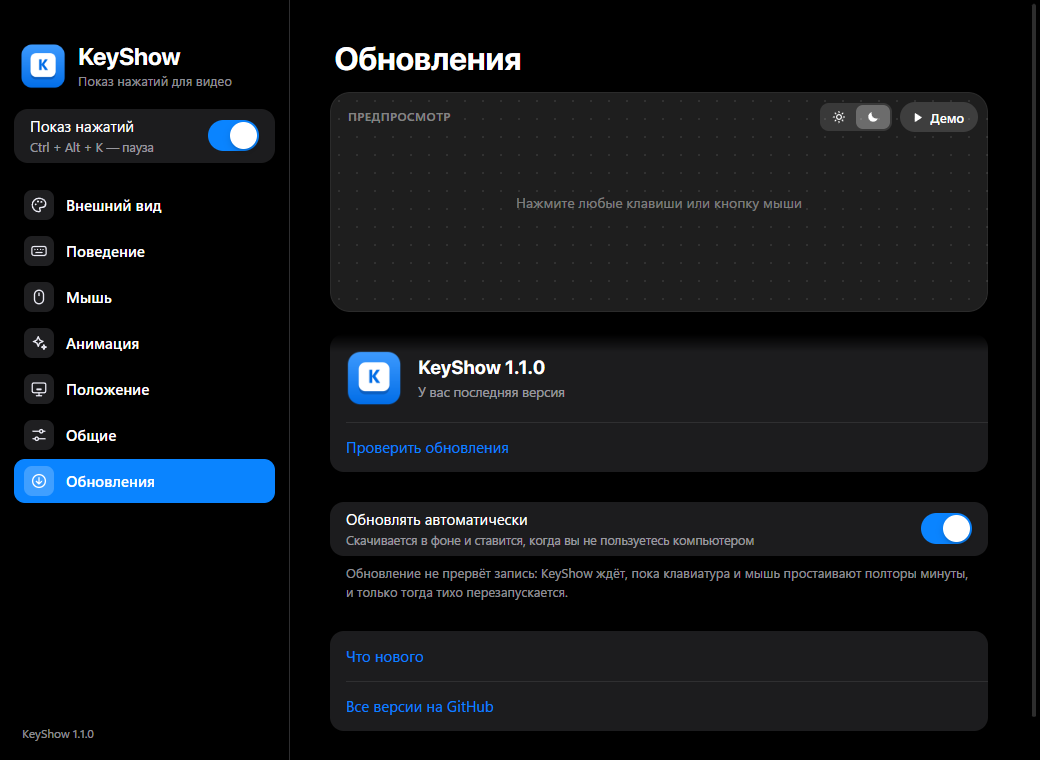
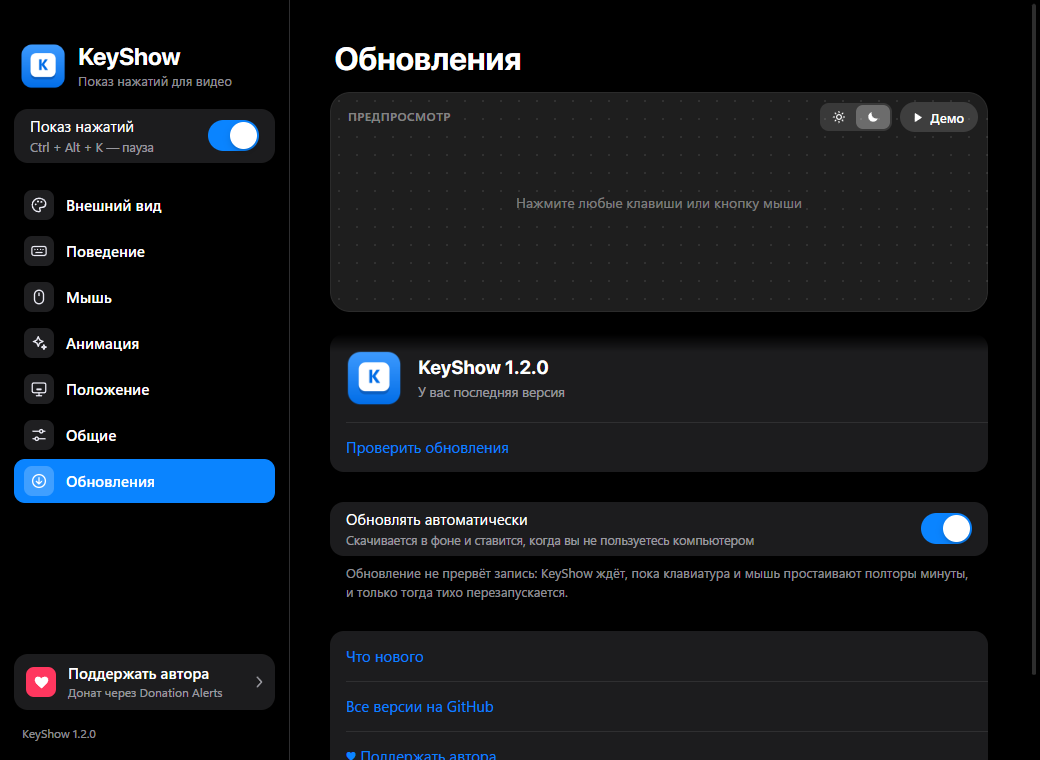
Add Support the author button (Donation Alerts)
Sidebar card, a row in Updates and a tray menu item open https://www.donationalerts.com/r/agrysif. Translated into all 12 languages. Release 1.3.0.

diff --git a/scripts/snap.js b/scripts/snap.js
@@ -5,6 +5,7 @@
 //   --i18n       окно настроек на двух языках, «Обновления» и «Что нового»
 //   --screens    скриншоты для README в docs/screenshots (сцены из scripts/showcase.html)
 //   --langs      окно настроек на всех языках: поиск вылезающего или обрезанного текста
+//   --donate     кнопки «Поддержать автора» открывают нужную ссылку (браузер не открывается)
 //   --real-hook  дополнительно отправить в систему безопасное Shift + F15 (проверка настоящего хука)
 'use strict';
 
@@ -204,6 +205,21 @@ async function langsScenario() {
   console.log(total ? `Проблем вёрстки: ${total}` : 'Вёрстка в порядке на всех языках');
 }
 
+// Кнопки «Поддержать автора»: вместо открытия браузера пишем адрес в лог.
+async function donateScenario() {
+  const { shell } = require('electron');
+  const opened = [];
+  shell.openExternal = async (url) => { opened.push(url); };
+  const { settings } = windows();
+  await settings.webContents.executeJavaScript("document.getElementById('donateBtn').click()");
+  await clickNav('updates');
+  await settings.webContents.executeJavaScript(
+    "[...document.querySelectorAll('.row.btn')].find((r) => r.textContent.includes('♥')).click()",
+  );
+  await sleep(300);
+  console.log('opened:', opened.join(' | ') || 'ничего');
+}
+
 // Скриншоты для README → docs/screenshots. Настоящий ввод отключён, чтобы в кадр не попало лишнее.
 async function screensScenario() {
   const shots = path.join(__dirname, '..', 'docs', 'screenshots');
@@ -366,6 +382,7 @@ app.whenReady().then(async () => {
     else if (process.argv.includes('--i18n')) await i18nScenario();
     else if (process.argv.includes('--screens')) await screensScenario();
     else if (process.argv.includes('--langs')) await langsScenario();
+    else if (process.argv.includes('--donate')) await donateScenario();
     else await fullScenario();
   } catch (err) {
     console.error('SNAP ERROR', err);

diff --git a/src/settings.css b/src/settings.css
@@ -181,9 +181,58 @@ nav {
 }
 .nav-item.badge.on::after { background: #FFFFFF; }
 
-.side-foot {
+/* «Поддержать автора» — внизу боковой панели */
+.donate {
+  display: flex;
+  align-items: center;
+  gap: 12px;
   margin-top: auto;
-  padding: 18px 8px 0;
+  padding: 10px 12px;
+  border: 0;
+  border-radius: 14px;
+  background: var(--card);
+  color: var(--text);
+  text-align: left;
+  cursor: pointer;
+  transition: background-color .15s ease, transform .2s ease;
+}
+.donate:hover { background: var(--hover); }
+.donate:active { transform: scale(.98); }
+.donate-ic {
+  display: grid;
+  place-items: center;
+  flex: none;
+  width: 30px;
+  height: 30px;
+  border-radius: 8px;
+  background: #FF375F;
+  color: #FFFFFF;
+}
+.donate-ic svg { width: 17px; height: 17px; display: block; }
+.donate:hover .donate-ic svg { animation: donate-beat .9s ease-in-out infinite; }
+@keyframes donate-beat {
+  0%, 100% { transform: scale(1); }
+  30% { transform: scale(1.18); }
+  60% { transform: scale(.96); }
+}
+.donate-text {
+  flex: 1;
+  min-width: 0;
+  font-size: 15px;
+  font-weight: 500;
+  line-height: 1.25;
+}
+.donate-text small {
+  display: block;
+  margin-top: 2px;
+  font-size: 12px;
+  font-weight: 400;
+  color: var(--text2);
+}
+.donate-chev { width: 7px; height: 12px; flex: none; color: var(--text2); }
+
+.side-foot {
+  padding: 14px 8px 0;
   font-size: 12px;
   line-height: 1.5;
   color: var(--text2);

diff --git a/src/main.js b/src/main.js
@@ -9,6 +9,7 @@ const { createUpdater } = require('./updater');
 const I18N = require('./i18n');
 
 const RELEASES_URL = 'https://github.com/Agrysif/keyshow/releases';
+const DONATE_URL = 'https://www.donationalerts.com/r/agrysif';
 
 let uIOhook = null;
 let UiohookKey = {};
@@ -387,6 +388,7 @@ function updateTray() {
     },
     { label: tr('tray.demo'), click: runDemo },
     { label: tr('tray.settings'), click: openSettings },
+    { label: '♥ ' + tr('donate'), click: () => shell.openExternal(DONATE_URL) },
     { type: 'separator' },
     { label: tr('tray.quit'), click: () => { quitting = true; app.quit(); } },
   ]));
@@ -559,6 +561,7 @@ ipcMain.on('whatsnew-seen', () => {
   saveSettings();
 });
 ipcMain.on('open-releases', () => shell.openExternal(RELEASES_URL));
+ipcMain.on('open-donate', () => shell.openExternal(DONATE_URL));
 ipcMain.on('demo', () => runDemo());
 ipcMain.on('hotkey-suspend', (_e, on) => {
   hotkeySuspended = !!on;

diff --git a/src/settings.js b/src/settings.js
@@ -771,7 +771,11 @@
           { title: '', rows: () => [toggleRow('autoUpdate', 'upd.auto', 'upd.autoSub')], footer: 'upd.footer' },
           {
             title: '',
-            rows: () => [buttonRow(t('upd.whatsNew'), openWhatsNew), buttonRow(t('upd.github'), () => api.openReleases())],
+            rows: () => [
+              buttonRow(t('upd.whatsNew'), openWhatsNew),
+              buttonRow(t('upd.github'), () => api.openReleases()),
+              buttonRow('♥ ' + t('donate'), () => api.openDonate()),
+            ],
           },
         ],
       },
@@ -841,6 +845,7 @@
     );
     $('#pvBg').replaceWith(previewSeg.el);
     $('#demoBtn').addEventListener('click', () => api.demo());
+    $('#donateBtn').addEventListener('click', () => api.openDonate());
   }
 
   // ---------------------------------------------------------------- init

diff --git a/src/locales/hy.js b/src/locales/hy.js
@@ -142,6 +142,8 @@
     'upd.footer': 'Թարմացումը չի ընդհատի տեսագրությունը. KeyShow-ն սպասում է, մինչև ստեղնաշարն ու մկնիկը մեկուկես րոպե անգործ մնան, և միայն այդ ժամանակ աննկատ վերագործարկվում է։',
     'upd.whatsNew': 'Ինչ նոր կա',
     'upd.github': 'Բոլոր տարբերակները GitHub-ում',
+    'donate': 'Աջակցել հեղինակին',
+    'donate.sub': 'Նվիրատվություն Donation Alerts-ի միջոցով',
     'upd.s.dev': 'Թարմացումներն աշխատում են KeyShow-ի տեղադրված տարբերակում',
     'upd.s.idle': 'Ստուգում դեռ չի կատարվել',
     'upd.s.checking': 'Ստուգում եմ թարմացումները…',

diff --git a/src/settings.html b/src/settings.html
@@ -33,6 +33,17 @@
 
       <nav id="nav"></nav>
 
+      <button class="donate" id="donateBtn" type="button">
+        <span class="donate-ic">
+          <svg viewBox="0 0 24 24"><path fill="currentColor" d="M12 20.6 10.6 19.3C5.6 14.8 2.4 11.9 2.4 8.4A4.8 4.8 0 0 1 7.2 3.6c1.8 0 3.5.8 4.8 2.2a6.5 6.5 0 0 1 4.8-2.2 4.8 4.8 0 0 1 4.8 4.8c0 3.5-3.2 6.4-8.2 10.9Z"/></svg>
+        </span>
+        <span class="donate-text">
+          <span data-i18n="donate"></span>
+          <small data-i18n="donate.sub"></small>
+        </span>
+        <svg class="donate-chev" viewBox="0 0 8 14"><path d="M1.5 1.5 6.5 7l-5 5.5" fill="none" stroke="currentColor" stroke-width="1.8" stroke-linecap="round" stroke-linejoin="round"/></svg>
+      </button>
+
       <div class="side-foot" id="sideFoot"></div>
     </aside>
 

diff --git a/src/locales/ky.js b/src/locales/ky.js
@@ -142,6 +142,8 @@
     'upd.footer': 'Жаңыртуу жазууну үзбөйт: KeyShow клавиатура менен чычкан бир жарым мүнөт бош турганын күтөт, андан кийин гана үнсүз кайра иштейт.',
     'upd.whatsNew': 'Эмне жаңылык',
     'upd.github': 'GitHub’тагы бардык версиялар',
+    'donate': 'Авторду колдоо',
+    'donate.sub': 'Donation Alerts аркылуу колдоо',
     'upd.s.dev': 'Жаңыртуулар KeyShow’дун орнотулган версиясында иштейт',
     'upd.s.idle': 'Текшерүү азырынча жүргүзүлгөн жок',
     'upd.s.checking': 'Жаңыртууларды текшерип жатам…',

diff --git a/src/locales/tg.js b/src/locales/tg.js
@@ -142,6 +142,8 @@
     'upd.footer': 'Навсозӣ сабтро қатъ намекунад: KeyShow интизор мешавад, ки клавиатура ва муш якуним дақиқа бекор истанд ва танҳо баъд оромона аз нав оғоз мешавад.',
     'upd.whatsNew': 'Чӣ нав аст',
     'upd.github': 'Ҳамаи версияҳо дар GitHub',
+    'donate': 'Дастгирии муаллиф',
+    'donate.sub': 'Кумак тавассути Donation Alerts',
     'upd.s.dev': 'Навсозиҳо дар версияи насбшудаи KeyShow кор мекунанд',
     'upd.s.idle': 'Санҷиш ҳанӯз анҷом нашудааст',
     'upd.s.checking': 'Навсозиҳоро месанҷам…',

diff --git a/src/locales/kk.js b/src/locales/kk.js
@@ -142,6 +142,8 @@
     'upd.footer': 'Жаңарту жазбаны үзбейді: KeyShow пернетақта мен тінтуір бір жарым минут бос тұрғанын күтеді, содан кейін ғана үнсіз қайта іске қосылады.',
     'upd.whatsNew': 'Не жаңалық',
     'upd.github': 'GitHub-тағы барлық нұсқалар',
+    'donate': 'Авторды қолдау',
+    'donate.sub': 'Donation Alerts арқылы демеу',
     'upd.s.dev': 'Жаңартулар KeyShow-дың орнатылған нұсқасында жұмыс істейді',
     'upd.s.idle': 'Тексеру әлі жасалған жоқ',
     'upd.s.checking': 'Жаңартуларды тексерудемін…',

diff --git a/src/locales/tt.js b/src/locales/tt.js
@@ -142,6 +142,8 @@
     'upd.footer': 'Яңарту язманы өзмәячәк: KeyShow клавиатура һәм тычкан бер ярым минут буш торганын көтә һәм шуннан соң гына тавышсыз яңадан кабына.',
     'upd.whatsNew': 'Нәрсә яңа',
     'upd.github': 'GitHub’тагы барлык версияләр',
+    'donate': 'Авторга ярдәм итү',
+    'donate.sub': 'Donation Alerts аша ярдәм',
     'upd.s.dev': 'Яңартулар KeyShow’ның урнаштырылган версиясендә эшли',
     'upd.s.idle': 'Тикшерү әле үткәрелмәде',
     'upd.s.checking': 'Яңартуларны тикшерәм…',

diff --git a/src/locales/be.js b/src/locales/be.js
@@ -142,6 +142,8 @@
     'upd.footer': 'Абнаўленне не перапыніць запіс: KeyShow чакае, пакуль клавіятура і мыш прастойваюць паўтары хвіліны, і толькі тады ціха перазапускаецца.',
     'upd.whatsNew': 'Што новага',
     'upd.github': 'Усе версіі на GitHub',
+    'donate': 'Падтрымаць аўтара',
+    'donate.sub': 'Данат праз Donation Alerts',
     'upd.s.dev': 'Абнаўленні працуюць ва ўсталяванай версіі KeyShow',
     'upd.s.idle': 'Праверка яшчэ не выконвалася',
     'upd.s.checking': 'Правяраю абнаўленні…',

diff --git a/src/locales/ru.js b/src/locales/ru.js
@@ -142,6 +142,8 @@
     'upd.footer': 'Обновление не прервёт запись: KeyShow ждёт, пока клавиатура и мышь простаивают полторы минуты, и только тогда тихо перезапускается.',
     'upd.whatsNew': 'Что нового',
     'upd.github': 'Все версии на GitHub',
+    'donate': 'Поддержать автора',
+    'donate.sub': 'Донат через Donation Alerts',
     'upd.s.dev': 'Обновления работают в установленной версии KeyShow',
     'upd.s.idle': 'Проверка ещё не выполнялась',
     'upd.s.checking': 'Проверяю обновления…',
